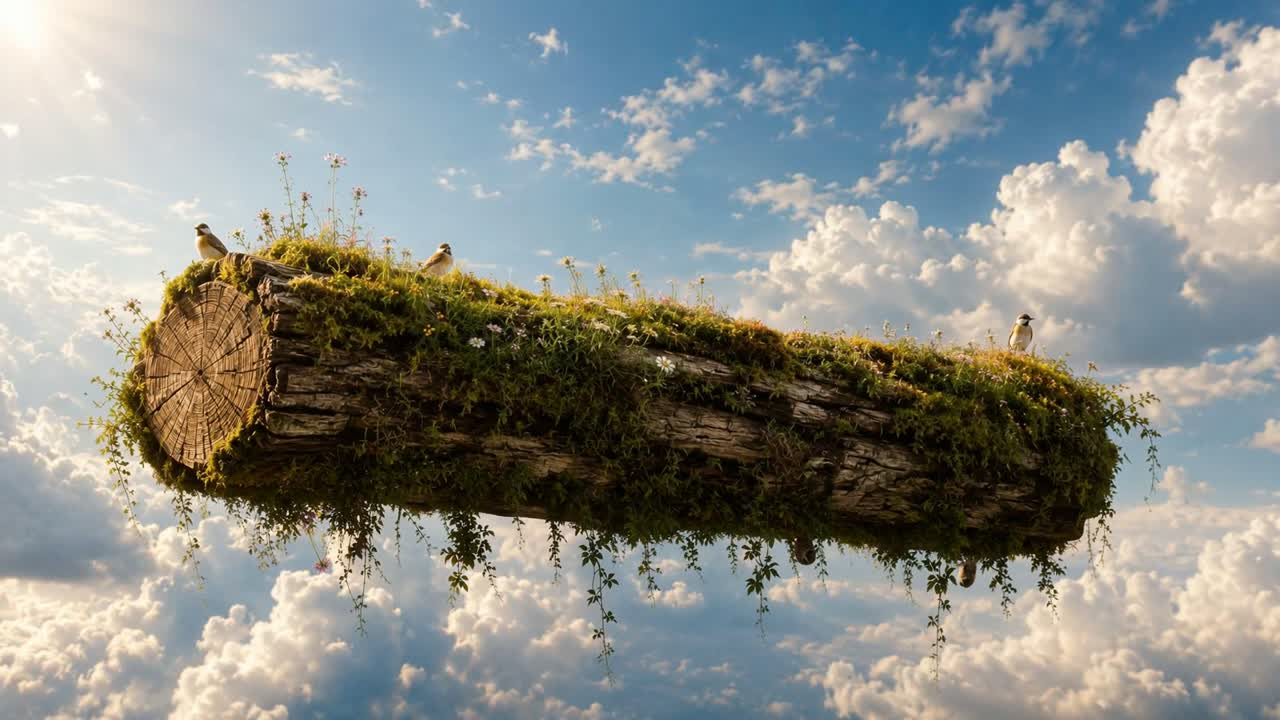
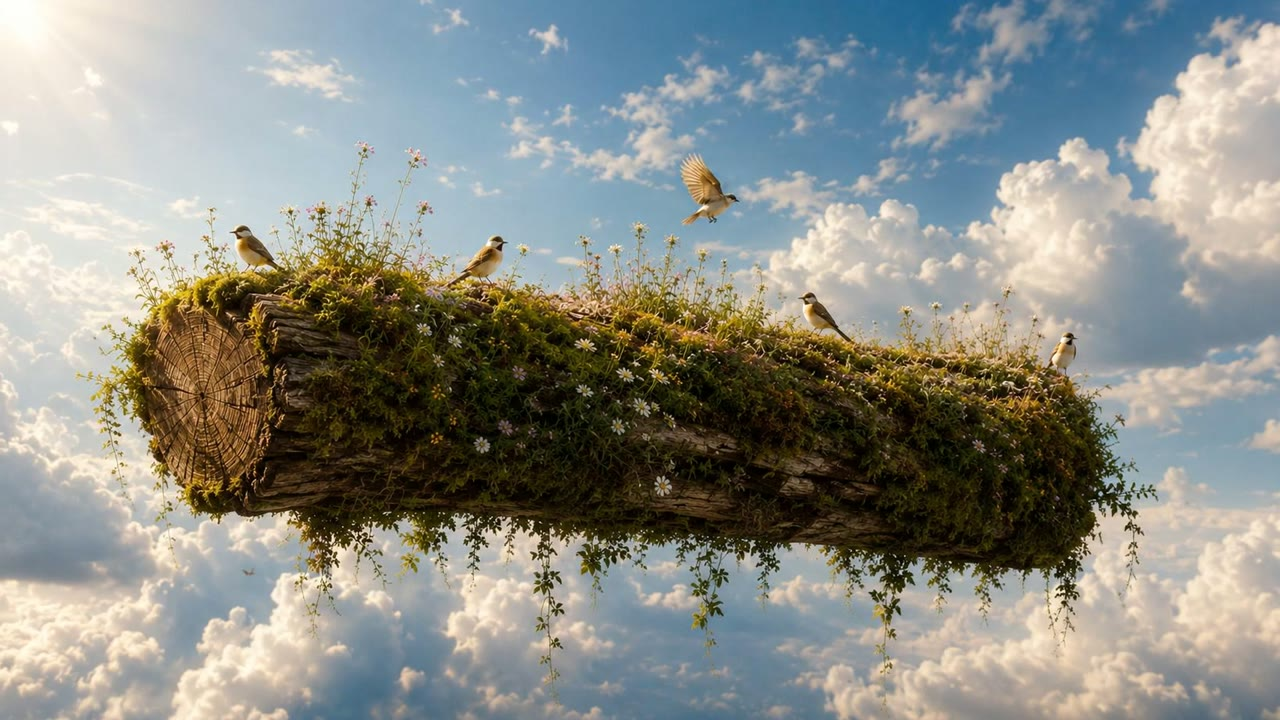
Fast hero first paint: paper fill, poster placeholder, prioritised frame 0
- Fill the canvas paper immediately instead of the default opaque black (that
  black under the light veil is what read as a white->black gradient on load)
- Fetch a small poster.jpg (regenerated from frame 0) high-priority and draw it
  as an instant placeholder while the 121-frame set streams in behind it
- Mark frame 0 fetchpriority=high and the rest low so the first frame isn't
  starved by 120 competing downloads; preload the poster in <head>
- Closes the 1-2s empty-gradient gap before the hero image appears

diff --git a/components/ui/FrameSequence.tsx b/components/ui/FrameSequence.tsx
@@ -6,18 +6,25 @@ import { ScrollTrigger } from "@/lib/gsap";
 /**
  * Scroll-scrubbed image-sequence background (Apple / Awwwards technique).
  *
- * A fixed full-viewport <canvas> draws the frame that matches total page-scroll
- * progress, so the greenhouse pushes forward as you scroll, with all content
- * overlaid on top. A dark-verdant veil sits above it for text legibility.
+ * A fixed full-viewport <canvas> draws the frame matching total page-scroll
+ * progress, so the floating log moves as you scroll, with all content overlaid
+ * on top. A paper veil sits above it for text legibility.
  *
- * Performance / mobile:
+ * Fast first paint:
+ *  - The canvas is filled paper immediately (never the default opaque black).
+ *  - A small poster.jpg is fetched high-priority and drawn as an instant
+ *    placeholder, so the hero shows an image while the full set streams in.
+ *  - Frame 0 is high-priority; the rest are low-priority, so the first frame
+ *    wins bandwidth instead of competing with all 121 at once.
+ *
+ * Perf / mobile:
  *  - Device-tier sets: 121 frames @1920 (desktop) vs 61 @1280 (mobile) WebP.
  *  - One canvas draw per scroll rAF (deduped by frame index) — cheap.
- *  - Frames preload as <img>; draw skips any not-yet-decoded frame and keeps
- *    the previous one, so scrubbing never blocks or flashes.
- *  - DPR capped at 2; redraws on resize.
+ *  - Draw skips any not-yet-decoded frame and keeps the previous one, so
+ *    scrubbing never blocks or flashes. DPR capped at 2; redraws on resize.
  */
 
+const PAPER = "#e8eee7";
 const DESKTOP = { dir: "/frames/d", count: 121 };
 const MOBILE = { dir: "/frames/m", count: 61 };
 const pad = (n: number) => String(n).padStart(3, "0");
@@ -37,12 +44,8 @@ export function FrameSequence() {
     let target = 0;
     let raf = 0;
 
-    const draw = (idx: number, force = false) => {
-      const i = Math.max(0, Math.min(set.count - 1, Math.round(idx)));
-      if (i === current && !force) return;
-      const img = images[i];
-      if (!img || !img.complete || img.naturalWidth === 0) return;
-      current = i;
+    // Cover-fit an image onto the canvas (like background-size: cover).
+    const paintCover = (img: HTMLImageElement) => {
       const cw = cv.width;
       const ch = cv.height;
       const ir = img.naturalWidth / img.naturalHeight;
@@ -62,25 +65,53 @@ export function FrameSequence() {
       ctx.drawImage(img, dx, dy, dw, dh);
     };
 
+    const draw = (idx: number, force = false) => {
+      const i = Math.max(0, Math.min(set.count - 1, Math.round(idx)));
+      if (i === current && !force) return;
+      const img = images[i];
+      if (!img || !img.complete || img.naturalWidth === 0) return;
+      current = i;
+      paintCover(img);
+    };
+
+    // Instant placeholder: a single small poster, fetched ahead of the set.
+    const poster = new Image();
+    poster.decoding = "async";
+    poster.setAttribute("fetchpriority", "high");
+    poster.src = "/frames/poster.jpg";
+    poster.onload = () => {
+      if (current < 0) paintCover(poster);
+    };
+
     const resize = () => {
       cv.width = Math.round(cv.clientWidth * dpr);
       cv.height = Math.round(cv.clientHeight * dpr);
-      draw(current >= 0 ? current : 0, true);
+      // Resizing clears the canvas → repaint the best thing we have, and never
+      // leave it as the default black: current frame › poster › flat paper.
+      if (current >= 0 && images[current]?.complete) {
+        paintCover(images[current]);
+      } else if (poster.complete && poster.naturalWidth > 0) {
+        paintCover(poster);
+      } else {
+        ctx.fillStyle = PAPER;
+        ctx.fillRect(0, 0, cv.width, cv.height);
+      }
     };
+
+    resize();
+    window.addEventListener("resize", resize);
 
     for (let i = 0; i < set.count; i++) {
       const img = new Image();
       img.decoding = "async";
+      // First frame wins the bandwidth; the rest fill in behind it.
+      img.setAttribute("fetchpriority", i === 0 ? "high" : "low");
       img.src = `${set.dir}/frame-${pad(i + 1)}.webp`;
       img.onload = () => {
-        if (i === 0) resize();
-        if (i === Math.round(target)) draw(target);
+        if (i === Math.round(target)) draw(target, true);
       };
       images[i] = img;
     }
-
-    resize();
-    window.addEventListener("resize", resize);
 
     const st = ScrollTrigger.create({
       start: 0,
@@ -99,6 +130,7 @@ export function FrameSequence() {
       window.removeEventListener("resize", resize);
       if (raf) cancelAnimationFrame(raf);
       st.kill();
+      poster.onload = null;
       images.forEach((im) => {
         im.onload = null;
       });
@@ -107,11 +139,18 @@ export function FrameSequence() {
 
   return (
     <>
+      {/* Warm the placeholder before the JS runs so the hero paints ASAP */}
+      <link
+        rel="preload"
+        as="image"
+        href="/frames/poster.jpg"
+        fetchPriority="high"
+      />
       <canvas
         ref={canvas}
         aria-hidden="true"
         className="fixed inset-0 z-0 h-full w-full"
-        style={{ backgroundColor: "#e8eee7" }}
+        style={{ backgroundColor: PAPER }}
       />
       {/* Legibility veil — a paper wash top/bottom for nav + footer, the hero
           shows through the middle. Fixed, opacity-only → cheap. */}